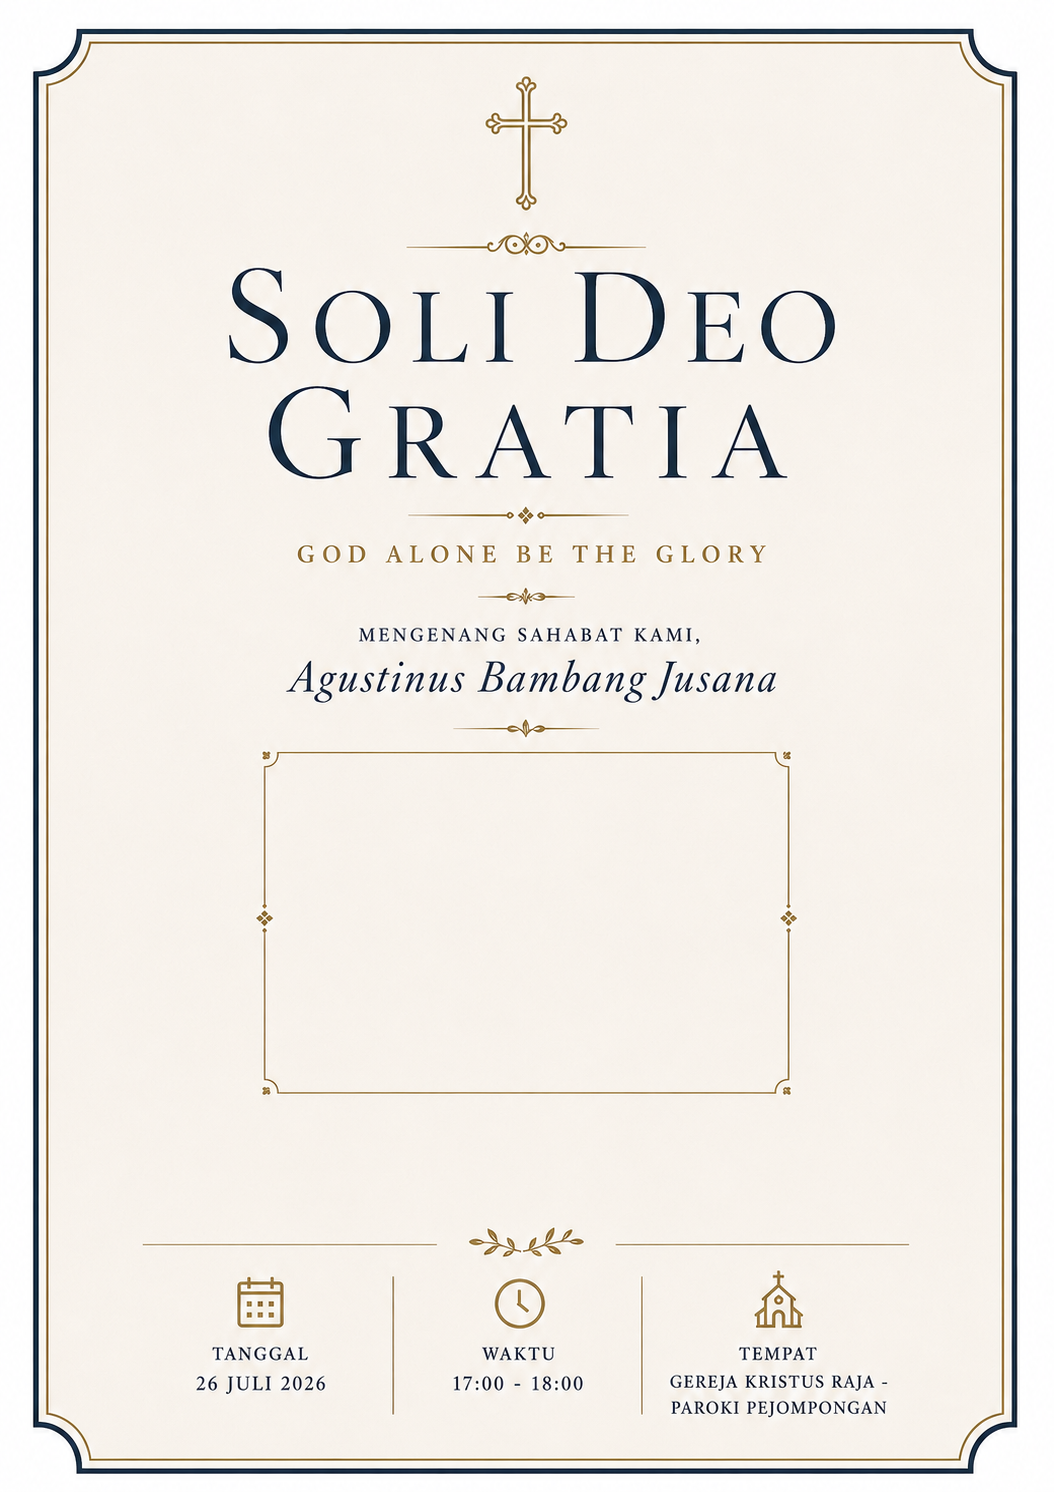
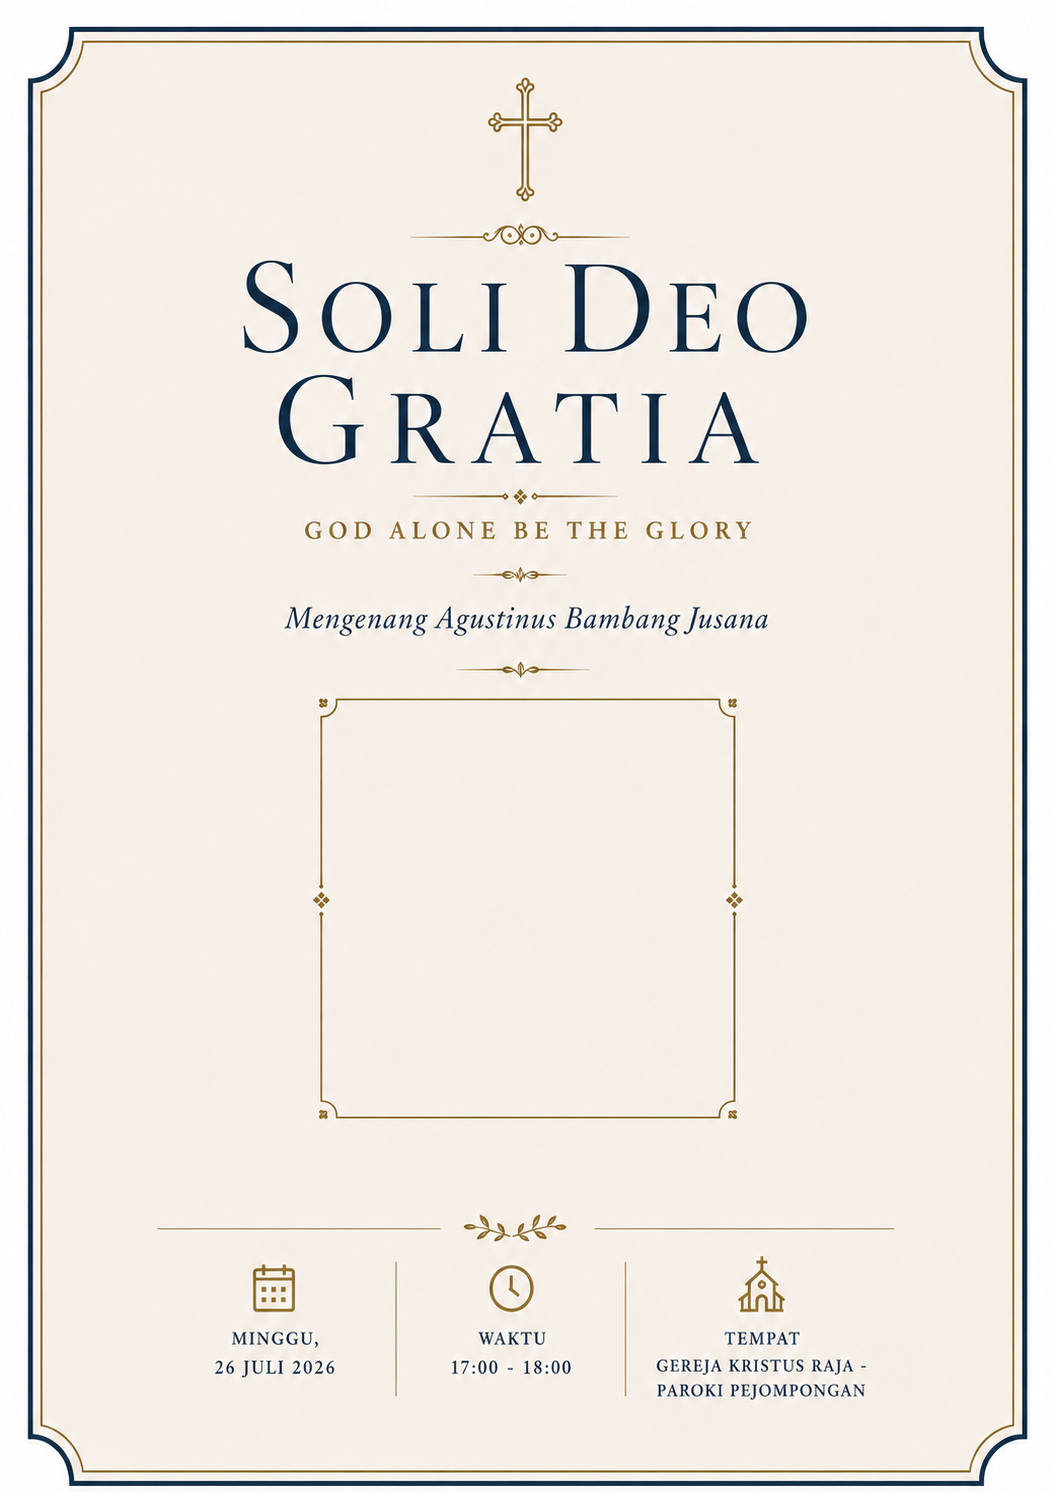
adjust ticket layout and size qr code

diff --git a/backend/app/Core/QrCodeGenerator.php b/backend/app/Core/QrCodeGenerator.php
@@ -5,21 +5,24 @@ namespace App\Core;
 use Endroid\QrCode\QrCode;
 use Endroid\QrCode\Writer\PngWriter;
 use Endroid\QrCode\Encoding\Encoding;
-use Endroid\QrCode\ErrorCorrectionLevel\ErrorCorrectionLevelHigh;
+use Endroid\QrCode\ErrorCorrectionLevel;
+use Endroid\QrCode\RoundBlockSizeMode;
 use Endroid\QrCode\Color\Color;
 
 class QrCodeGenerator
 {
     public function generate(string $data, int $size = 256): string
     {
-        // endroid/qr-code v4 uses named constructors and immutable value objects
-        $qrCode = QrCode::create($data)
-            ->setEncoding(new Encoding('UTF-8'))
-            ->setErrorCorrectionLevel(new ErrorCorrectionLevelHigh())
-            ->setSize($size)
-            ->setMargin(0)
-            ->setForegroundColor(new Color(0, 0, 0))
-            ->setBackgroundColor(new Color(255, 255, 255));
+        $qrCode = new QrCode(
+            data: $data,
+            encoding: new Encoding('UTF-8'),
+            errorCorrectionLevel: ErrorCorrectionLevel::High,
+            size: $size,
+            margin: 0,
+            roundBlockSizeMode: RoundBlockSizeMode::Margin,
+            foregroundColor: new Color(0, 0, 0),
+            backgroundColor: new Color(255, 255, 255),
+        );
 
         $writer = new PngWriter();
         $result = $writer->write($qrCode);

diff --git a/backend/app/Core/TicketPdfGenerator.php b/backend/app/Core/TicketPdfGenerator.php
@@ -40,13 +40,13 @@ class TicketPdfGenerator
     private const NAME_FONT_SIZE = 18;
 
     /** QR code — top-left X (mm) */
-    private const QR_X = 79;
+    private const QR_X = 72;
 
     /** QR code — top-left Y (mm) */
-    private const QR_Y = 158;
+    private const QR_Y = 149;
 
     /** QR code — width = height (mm) */
-    private const QR_SIZE = 50;
+    private const QR_SIZE = 65;
 
     // ─────────────────────────────────────────────────────────────────────────
 
